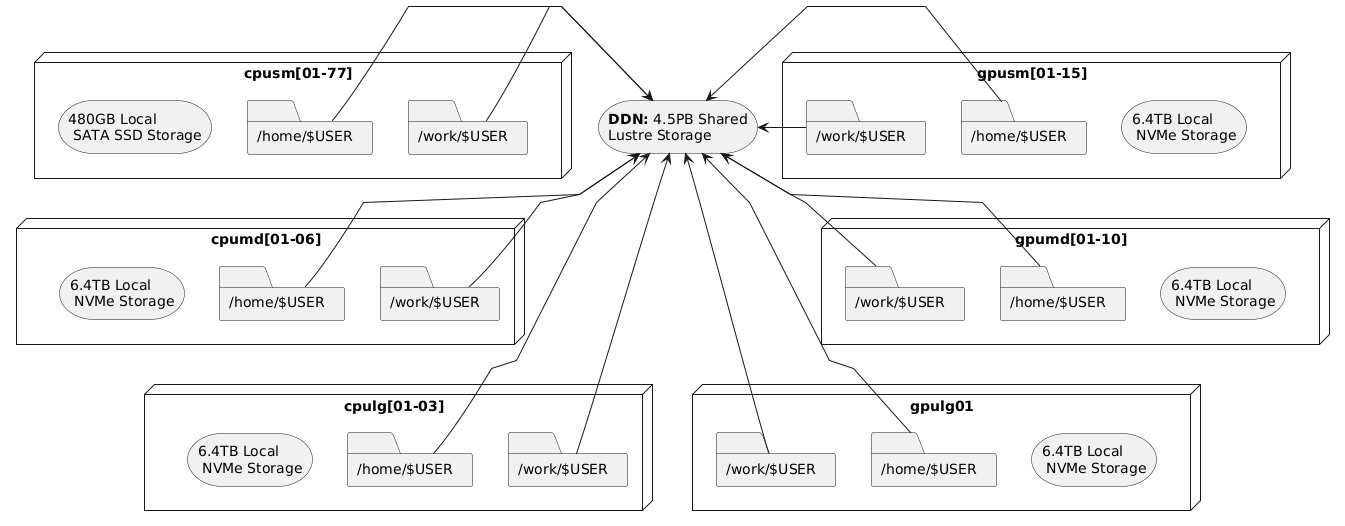
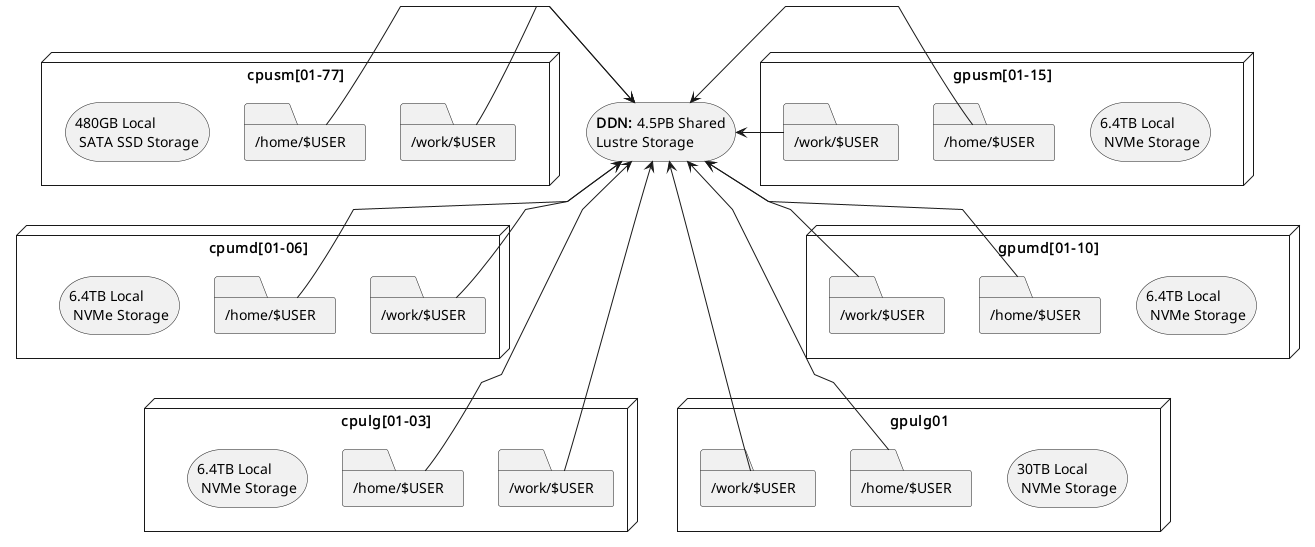
update storage section to clarify storage locations

diff --git a/guides/storage/index.rst b/guides/storage/index.rst
@@ -27,10 +27,12 @@ Filesystem locations users should understand
 
 Scratch
 ^^^^^^^
-- **Location in filesystem:** ``/mnt/local/scratch/$USER``.
-- **Local to each compute node**: This means it is **not shared** across nodes.
-- **High performance**: Offers significantly faster read/write speeds compared to home and shared scratch storage.
-- **Limited capacity**: Typically smaller in size, so it's best suited for temporary files and high-speed I/O operations during job execution.
+- **Location on compute nodes:** ``/mnt/local/scratch/$USER``.
+- **Local to each compute node**: This storage is **temporary**, and local to a compute node. It is available to a user only 
+  when a node is assigned for running jobs
+- **High performance**: Offers significantly faster read/write speeds compared to home and work storage.
+- **Limited capacity**: the capacity varies as per the node type and can be anywhere between 480 GB to 30 TB. Please refer
+  to the table on the `Zurada hardware specs <https://ularc.github.io/zurada/gettingstarted/index.html#about-the-cluster>`_ for details
 - **Data retention policy:** ALL DATA IS REMOVED after a job finishes.
 
 Work
@@ -44,23 +46,22 @@ Work
 
 Home
 ^^^^^
+- **Location in filesystem:** ``/home/$USER``.
 - **Shared across all nodes**: Accessible from any compute node in the system.
 - **Limited capacity**: Hard quota limit of 25GB per user. If you try to write more than 25G, an error will be displayed
   and any subsequent write operations will be denied.
 - **Slower access**: Due to its shared nature, read/write operations are generally slower than local scratch storage.
 - **Data retention policy:** Data is kept and backed up for 7 days.
-- **Location in filesystem:** ``/home/$USER``.
 
 Recommended Workflow
 ====================
 
 A common and efficient workflow for running jobs on the system is:
 
-1. **Prepare Input Data**: Copy necessary input files from your home or shared scratch storage to the node's local scratch storage at the start of your job.
+1. **Prepare Input Data**: Copy necessary input files from your home or work storage to the node's local scratch storage at the start of your job.
 2. **Run the Application**: Configure your application to read from and write to the local scratch storage during execution.
    This takes advantage of its high-speed performance.
-3. **Save Results**: Once the job completes, copy the output files back to your shared scratch storage for longer term retention, or to home storage if
-   you want them backed up.
+3. **Save Results**: Once the job completes, copy the output files back to your work directory for longer term retention, or to home directory if you want them backed up.
 
 See Section :ref:`Copying data between home and scratch <storage_copy_data>` for more information on how to implement
 this worflow.
@@ -82,6 +83,8 @@ The general template for the ``pdsh`` command includes three key components:
 - ``-R ssh``: Specifies SSH as the remote shell method (always use ``ssh``).
 - ``-w $SLURM_JOB_NODELIST``: Targets all nodes allocated to your job.
 - **Remote command**: Executes on each node, leveraging the fact that ``home`` is shared while ``scratch`` is local.
+
+Please note that while we talk about copying ``home`` in this section, there is no reason to not use the ``work`` directory to copy to node-local ``scratch`` as well.
 
 Below are common usage patterns:
 
